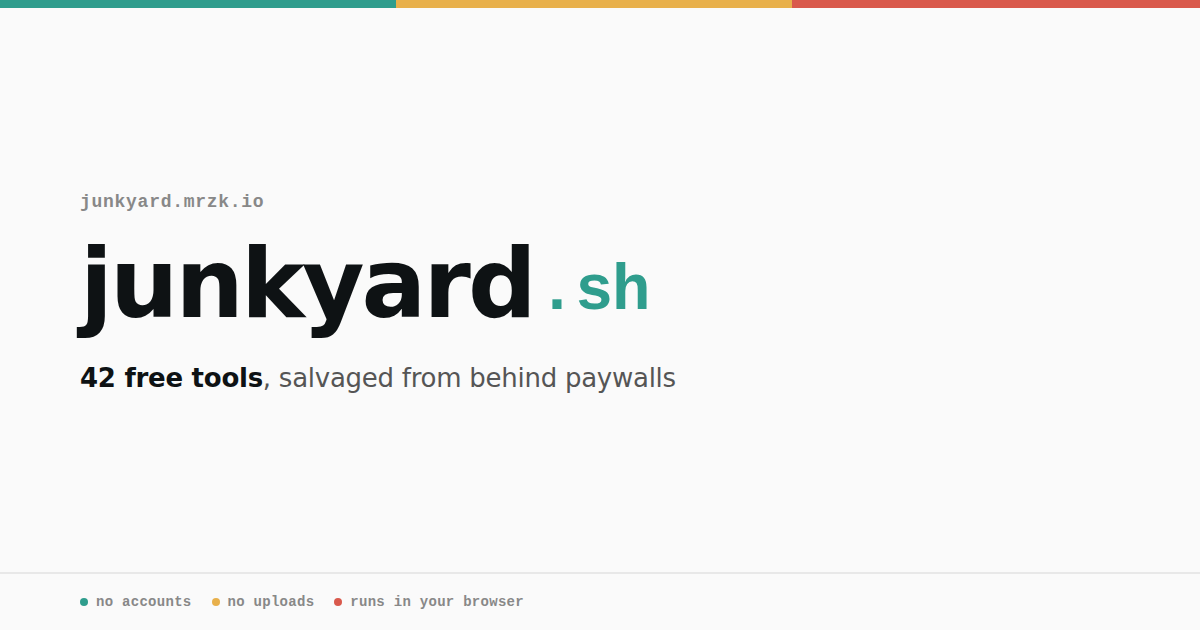
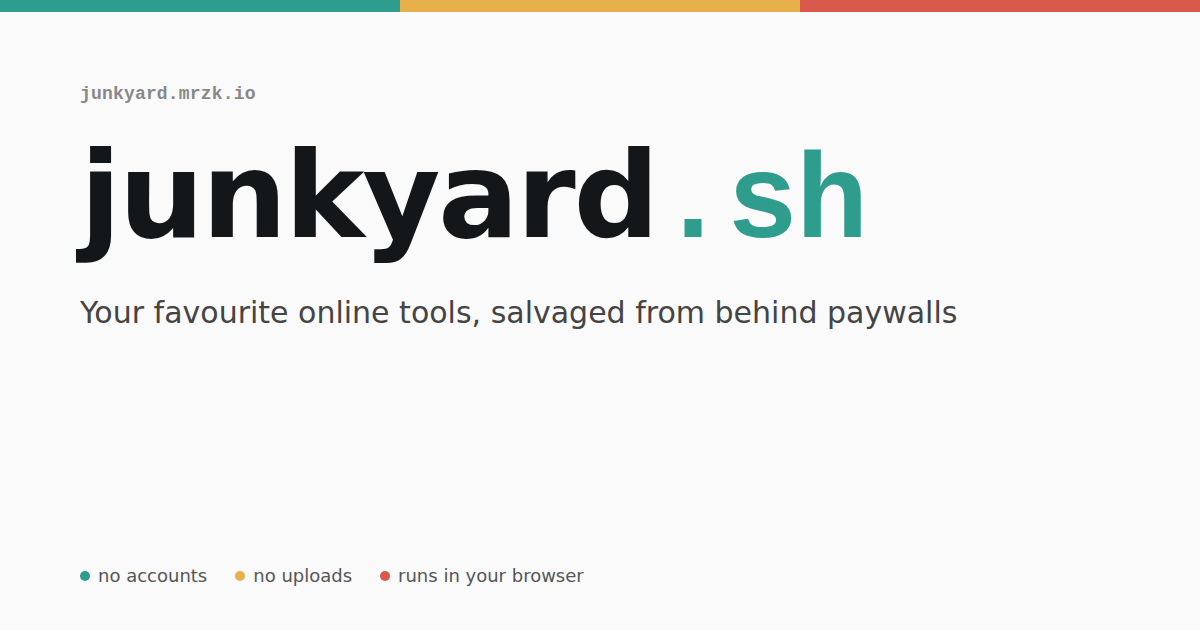
chore(hub): drop hardcoded 42 tool count; use new tagline everywhere
- og.png: re-rendered via Playwright (1200x630) with new tagline
  "Your favourite online tools, salvaged from behind paywalls";
  no tool count in the banner.
- index.html: replace all "42 free tools..." occurrences in description,
  og:description, twitter:description, og:image:alt, and JSON-LD
  description with tagline-framed copy (no count, no em dashes).
- Hero.tsx: import TOOLS from ../tools and render {TOOLS.length} tools
  so the stat pill tracks the real catalogue automatically.

diff --git a/hub/index.html b/hub/index.html
@@ -20,7 +20,7 @@
     <title>junkyard.sh - free tools, salvaged from behind paywalls</title>
     <meta
       name="description"
-      content="42 free tools that run entirely in your browser. No accounts, no uploads, no paywalls. Salvaged from behind subscriptions and left out for anyone to grab."
+      content="Your favourite online tools, salvaged from behind paywalls. Free, open source, and running entirely in your browser - no accounts, no uploads, no paywalls."
     />
     <meta
       name="keywords"
@@ -45,13 +45,13 @@
     />
     <meta
       property="og:description"
-      content="42 free tools that run entirely in your browser. No accounts, no uploads, no paywalls."
+      content="Your favourite online tools, salvaged from behind paywalls. Free, open source, runs entirely in your browser."
     />
     <meta property="og:url" content="https://junkyard.mrzk.io/" />
     <meta property="og:image" content="https://junkyard.mrzk.io/og.png" />
     <meta property="og:image:width" content="1200" />
     <meta property="og:image:height" content="630" />
-    <meta property="og:image:alt" content="junkyard.sh - 42 free browser tools" />
+    <meta property="og:image:alt" content="junkyard.sh - your favourite online tools, salvaged from behind paywalls" />
 
     <!-- Twitter card -->
     <meta name="twitter:card" content="summary_large_image" />
@@ -61,7 +61,7 @@
     />
     <meta
       name="twitter:description"
-      content="42 free tools that run entirely in your browser. No accounts, no uploads, no paywalls."
+      content="Your favourite online tools, salvaged from behind paywalls. Free, open source, runs entirely in your browser."
     />
     <meta name="twitter:image" content="https://junkyard.mrzk.io/og.png" />
 
@@ -81,7 +81,7 @@
             "@type": "WebSite",
             "name": "junkyard.sh",
             "url": "https://junkyard.mrzk.io/",
-            "description": "42 free browser tools salvaged from behind paywalls. No accounts, no uploads, no subscriptions.",
+            "description": "Your favourite online tools, salvaged from behind paywalls. Free, open source, no accounts, no uploads, no subscriptions.",
             "author": { "@id": "https://mrzk.io/#person" }
           }
         ]

diff --git a/hub/src/components/Hero.tsx b/hub/src/components/Hero.tsx
@@ -1,3 +1,5 @@
+import { TOOLS } from "../tools";
+
 export function Hero() {
   return (
     <section className="hero">
@@ -32,7 +34,7 @@ export function Hero() {
         </div>
         <div className="statline">
           <span className="pill">
-            <b>42</b> tools
+            <b>{TOOLS.length}</b> tools
           </span>
           <span className="pill warn">
             <b>$0</b> forever